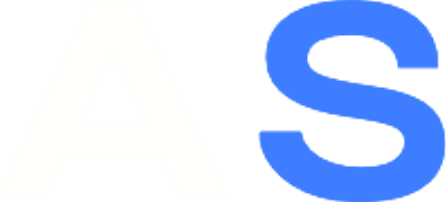
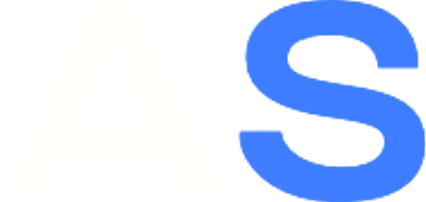
AS mark: the letters closer together
The gap between the A and the S drops from 32 to 12 source pixels, so
the mark reads as one monogram (public/as-mark.png, now 426×202).

diff --git a/src/components/LoadingScreen.tsx b/src/components/LoadingScreen.tsx
@@ -37,7 +37,7 @@ export default function LoadingScreen({ label }: { label?: string }) {
       <div ref={centerRef} className="ld-center" suppressHydrationWarning>
         {/* The A and the S, cut from the wordmark (public/as-mark.png). */}
         {/* eslint-disable-next-line @next/next/no-img-element */}
-        <img src="/as-mark.png" alt="AgoraSphere" className="ld-mark" width={446} height={202} />
+        <img src="/as-mark.png" alt="AgoraSphere" className="ld-mark" width={426} height={202} />
         {label && (
           <p className="ld-label">
             {label}

diff --git a/src/app/globals.css b/src/app/globals.css
@@ -2267,7 +2267,7 @@ html.reduce-motion .nav-sparkle {
   background: radial-gradient(ellipse at center, rgba(0,0,0,0.92), rgba(0,0,0,0.7) 42%, transparent 70%);
 }
 /* The AS mark: the A of "Agora" and the S of "Sphere", cut straight
-   from the wordmark (public/as-mark.png, 446×202). */
+   from the wordmark (public/as-mark.png, 426×202). */
 .ld-mark { height: 28px; width: auto; display: block; }
 .ld-label {
   margin: 14px 0 0; font-size: 12.5px; letter-spacing: 0.04em; color: #9aa0ac;
